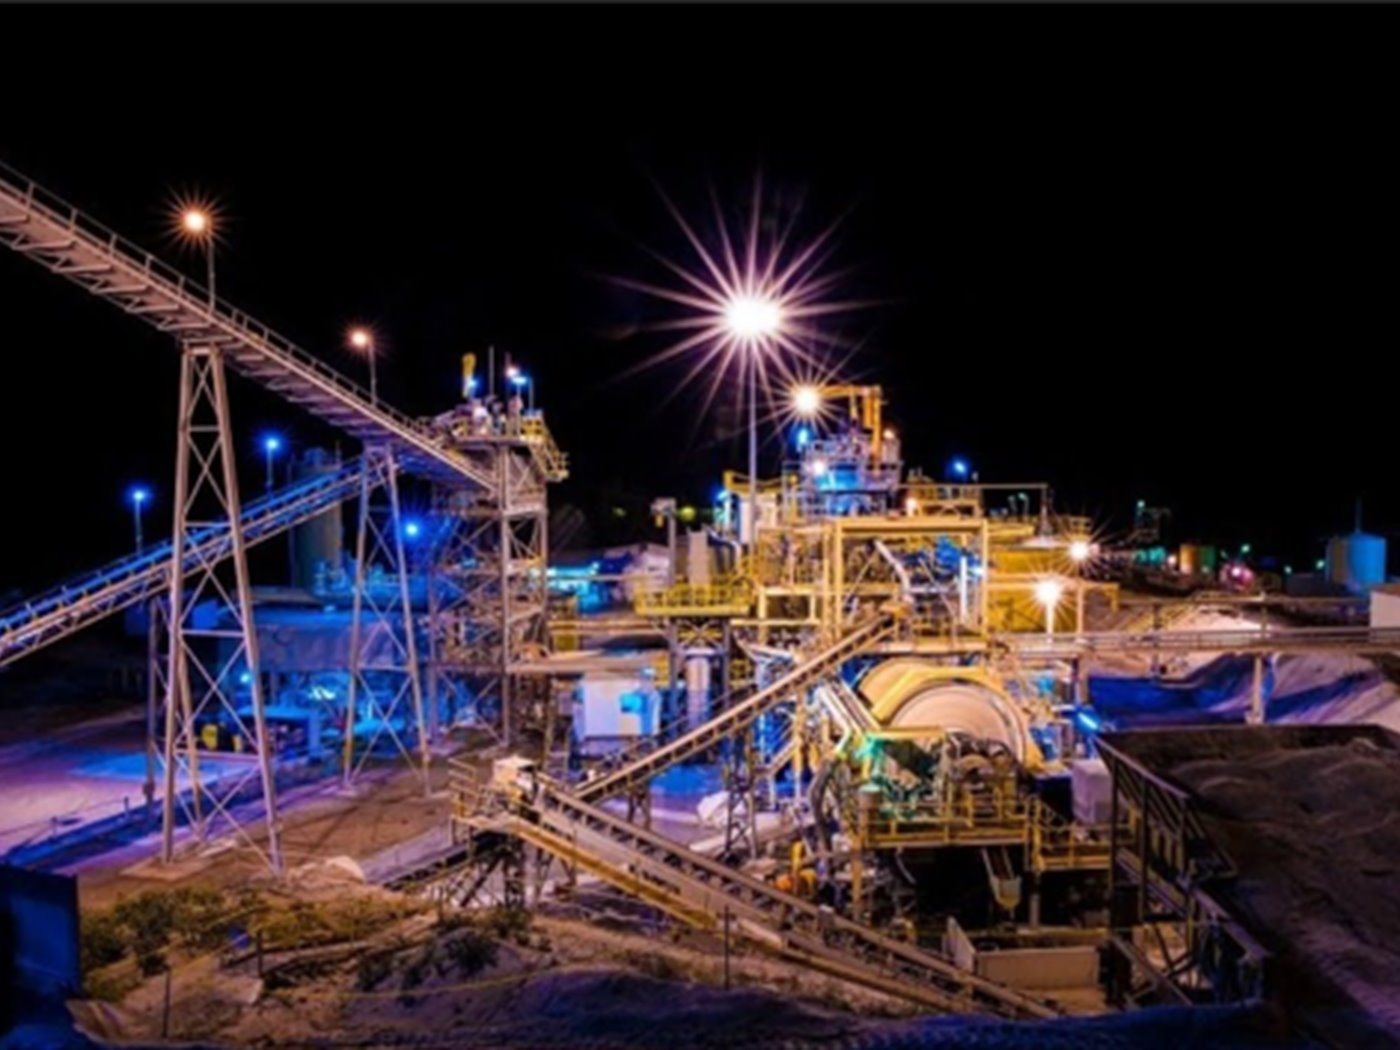
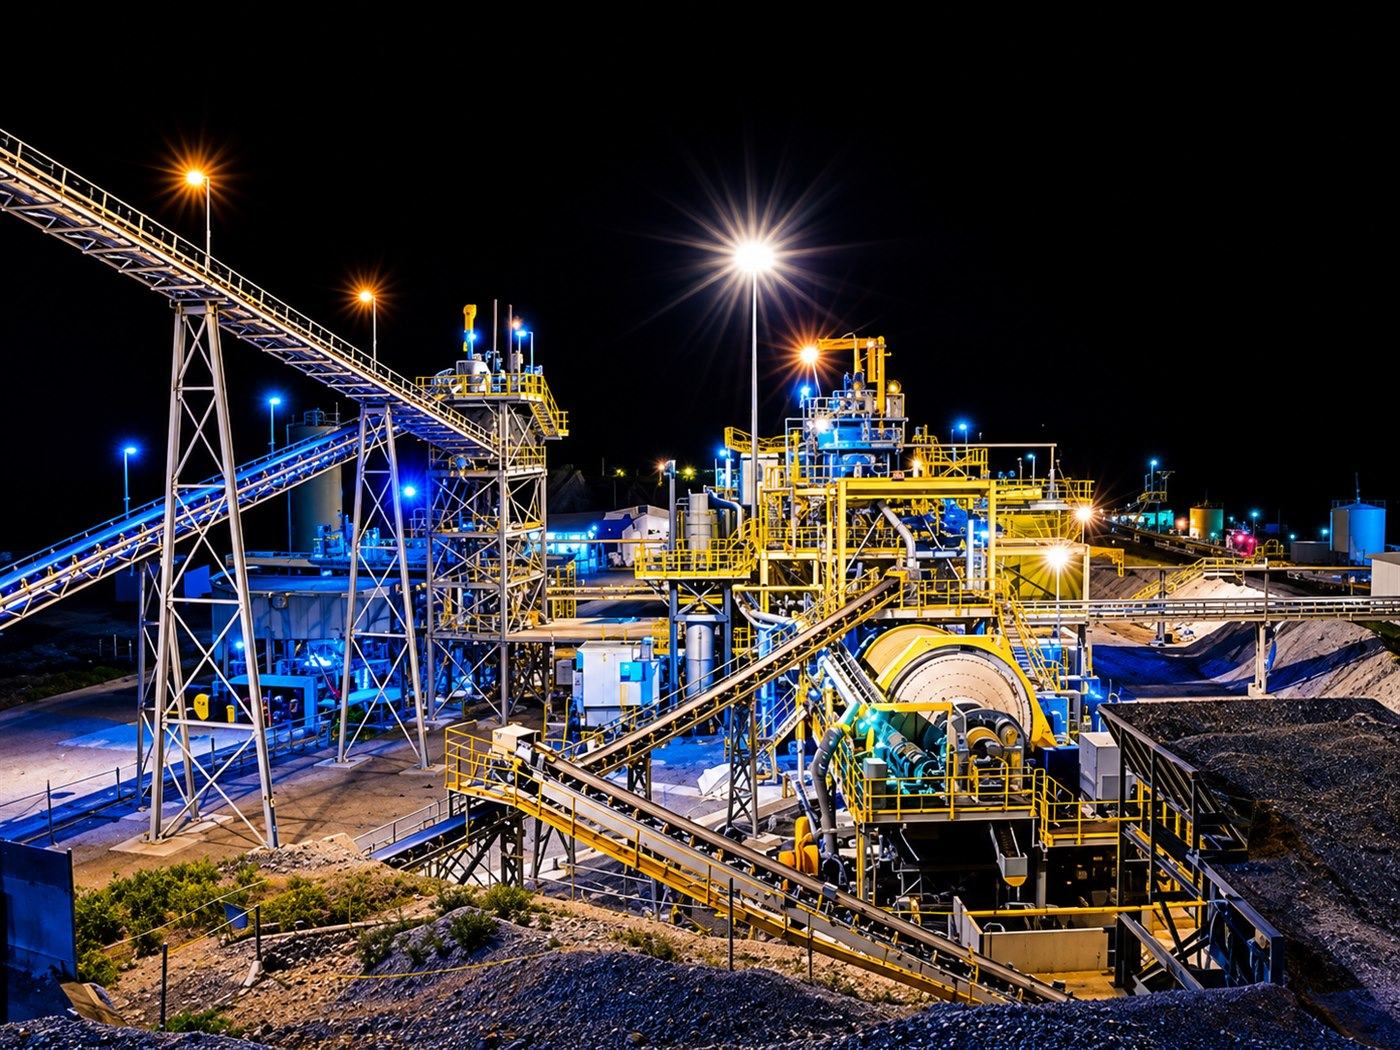
Fotos 12 e 13 (seguranca/controle) e segmentos Agroindustria/Industria em alta qualidade

diff --git a/seguranca-qualidade.html b/seguranca-qualidade.html
@@ -66,7 +66,7 @@
       <div class="container container--wide">
         <div class="safety-grid">
           <figure class="media-frame media-frame--zoom aspect-4x3 reveal">
-            <img src="assets/img/media/qualidade-01.svg" alt="Inspeção de soldagem e controle de qualidade em ambiente industrial (imagem ilustrativa)." loading="lazy" decoding="async">
+            <img src="assets/img/media/qualidade-01.jpg" alt="Equipe em campo com capacetes e coletes refletivos, ilustrando a segurança como requisito de execução." loading="lazy" decoding="async">
           </figure>
           <div class="split__body">
             <span class="section-index reveal">01 / Princípios</span>

diff --git a/engenharia.html b/engenharia.html
@@ -109,7 +109,7 @@
             </ul>
           </div>
           <figure class="media-frame media-frame--zoom aspect-4x3 split__media reveal">
-            <img src="assets/img/media/engenharia-01.svg" alt="Planejamento e controle de obra industrial (imagem ilustrativa)." loading="lazy" decoding="async">
+            <img src="assets/img/media/engenharia-01.jpg" alt="Notebook, tablet e documentos com cronogramas e indicadores de controle da execução, ao lado de capacete MHR." loading="lazy" decoding="async">
           </figure>
         </div>
       </div>

diff --git a/README.md b/README.md
@@ -227,13 +227,15 @@ As fotos enviadas ficam numeradas na pasta `projects/`. Correspondência atual:
 | `assets/2.PNG` | `services/servico-05.jpg` (recortada de 569 × 758 para 4:3) |
 | `assets/3.PNG` | `services/servico-07.jpg` (recortada de 563 × 373 para 4:3) |
 | `assets/4.PNG` | `segments/segmento-01.jpg` — card Mineração (recortada de 564 × 484 para 4:3) |
-| `assets/5.PNG` | `segments/segmento-02.jpg` — card Agroindústria (redimensionada de 424 × 319 para 4:3) |
+| `assets/5.PNG` | `segments/segmento-02.jpg` — card Agroindústria (versão de alta qualidade, 1448 × 1086 → 1400 × 1050) |
 | `assets/6.PNG` | `segments/segmento-03.jpg` — card Beneficiamento/Processamento Agroindustrial (recortada de 568 × 378 para 4:3) |
-| `assets/7.PNG` | `segments/segmento-04.jpg` — card Indústria em Geral (recortada de 565 × 353 para 4:3) |
+| `assets/7.PNG` | `segments/segmento-04.jpg` — card Indústria em Geral (versão de alta qualidade, 1448 × 1086 → 1400 × 1050) |
 | `assets/8.PNG` | `media/seguranca-01.jpg` — seção Segurança (home) e fundo do hero de Segurança e Qualidade (recortada de 577 × 391 para 4:3) |
 | `assets/9.PNG` | `services/servico-04.jpg` (recortada de 566 × 425 para 4:3) |
 | `assets/10.PNG` | `services/servico-08.jpg` (recortada de 565 × 314 para 4:3) |
 | `assets/11.PNG` | `services/servico-09.jpg` (recortada de 569 × 378 para 4:3) |
+| `assets/12.PNG` | `media/qualidade-01.jpg` — seção "Segurança como requisito de execução" (recortada de 542 × 360 para 4:3) |
+| `assets/13.PNG` | `media/engenharia-01.jpg` — seção "Controle que acompanha a execução" (recortada de 565 × 380 para 4:3) |
 | `projects/5.jpg` | `services/servico-06.jpg` (recortada de 2304 × 4096 para 4:3) |
 
 Ao trocar um placeholder por uma foto real, preencha também o campo
